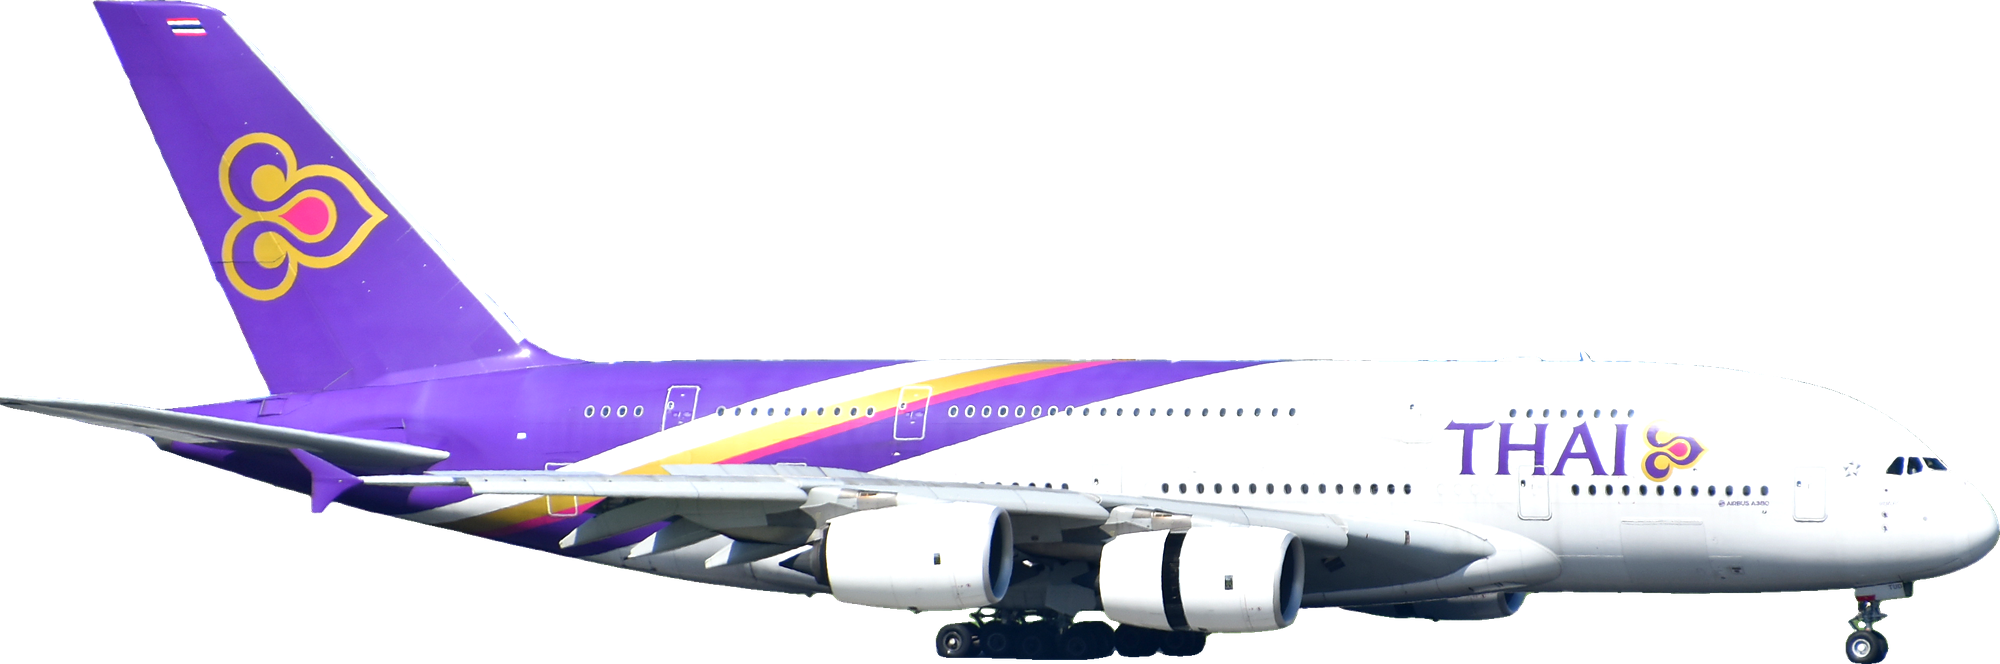
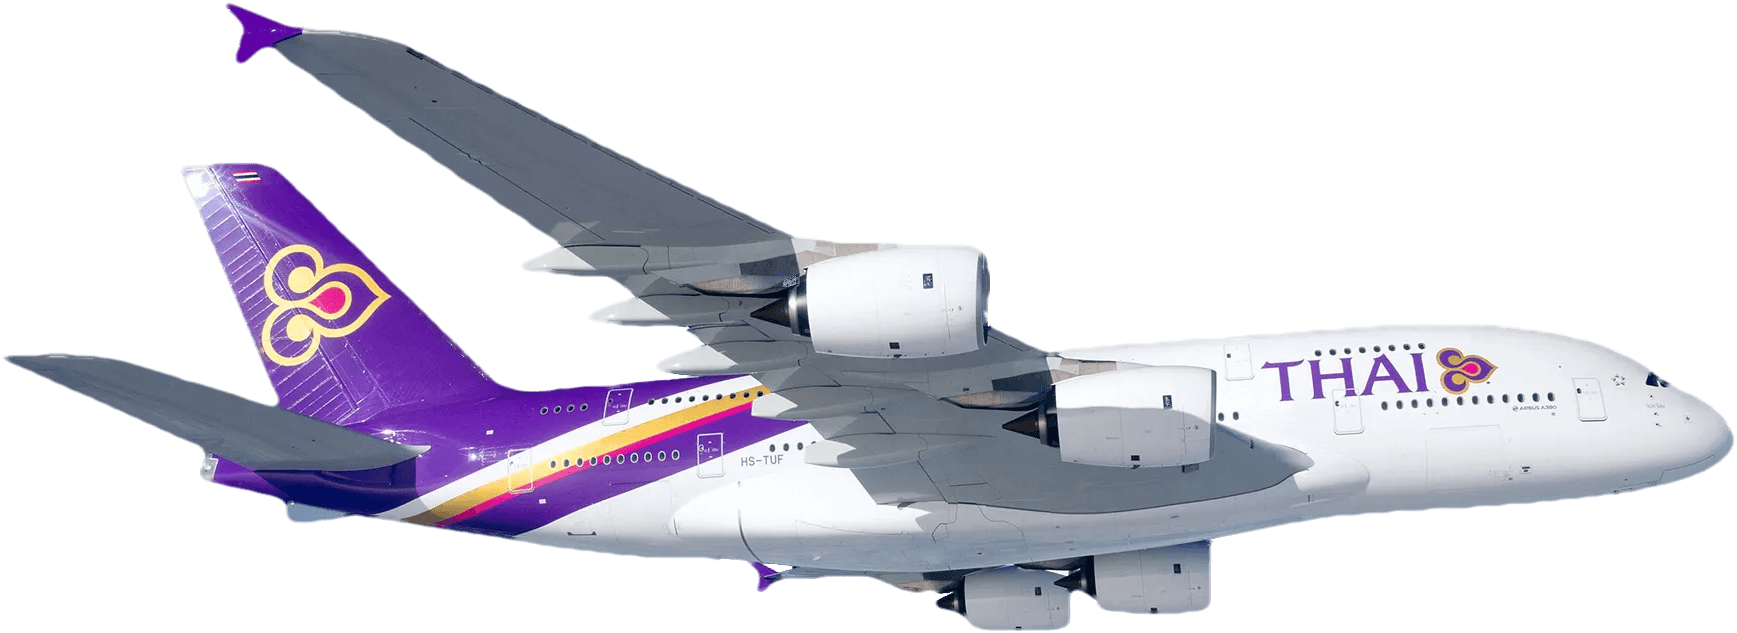
Replace the retired A380's picture with the owner's photograph of HS-TUF
The owner supplied a new A380 photograph on 15 Nov 2026. Its sky was
removed with macOS's subject lifting, then refined: the outline smoothed,
edge pixels recoloured from the airframe beside them so no blue halo is
left, and sky showing between the engines and pylons cut out. The
cockpit windows, the fin's flag and every marking are untouched, and the
picture is not mirrored. It is cropped to the airframe, 1737x633, and
the original is kept in _source-media/fleet-originals/history.

Its Commons credit leaves the footer with the old photograph.

The photograph is taken from below, banking, so its wings make it taller
than the side views. The frame's height cap shrank it below the shorter
747-400; an `angled` image now keeps its length and runs a little past
the frame's height, without changing the frame's own height, so the
board does not jump when the type is picked. Only the A380 is marked.

Claude-Session: https://claude.ai/code/session_01Tv72X85qZyVtd3HqDFykYj

diff --git a/content/fleet.ts b/content/fleet.ts
@@ -40,8 +40,19 @@ export type Aircraft = {
   legacy?: true;
 };
 
-/** A file under public/, and its intrinsic size in pixels. */
-export type AircraftImage = { src: string; width: number; height: number; credit?: PhotoCredit };
+/**
+ * A file under public/, and its intrinsic size in pixels. `angled` marks a
+ * picture taken from below or at an angle rather than side-on: its wings make
+ * it taller than a profile, so the frame's height cap would shrink it below
+ * its length, and it is let run past that height instead.
+ */
+export type AircraftImage = {
+  src: string;
+  width: number;
+  height: number;
+  credit?: PhotoCredit;
+  angled?: true;
+};
 
 /**
  * Who took a photograph and the licence it is used under. A Creative Commons
@@ -90,11 +101,11 @@ const allTypes: Aircraft[] = [
       credit: { author: "QFSE Media", license: "CC BY-SA 3.0 NZ",
         source: "https://commons.wikimedia.org/wiki/File:01_Thai_Airways_HS-TNC.jpg",
         licenseUrl: "https://creativecommons.org/licenses/by-sa/3.0/nz/" } } },
+  // HS-TUF in flight, supplied by the owner on 15 Nov 2026 and cut out of its
+  // sky. It is seen from below, banking, rather than flat side-on like the
+  // rest; the original is in _source-media/fleet-originals/history.
   { code: "A380", maker: "Airbus", name: "A380", length: 72.7, height: 24.1, retired: true,
-    image: { src: "/images/history/airbus-a380.png", width: 2000, height: 664,
-      credit: { author: "Alec Wilson", license: "CC BY-SA 2.0",
-        source: "https://commons.wikimedia.org/wiki/File:HS-TUD_(27782856595).jpg",
-        licenseUrl: "https://creativecommons.org/licenses/by-sa/2.0/" } } },
+    image: { src: "/images/history/airbus-a380.png", width: 1737, height: 633, angled: true } },
   { code: "B744", maker: "Boeing", name: "747-400", length: 70.7, height: 19.4, retired: true,
     image: { src: "/images/history/boeing-747-400.png", width: 2000, height: 573,
       credit: { author: "Alec Wilson", license: "CC BY-SA 2.0",

diff --git a/app/globals.css b/app/globals.css
@@ -2121,6 +2121,19 @@ select:disabled,
     object-position: right center;
   }
 
+  /* Seen from below, the wings make it taller than a side view; capped, it
+     came out shorter than types it is longer than. It keeps its length and
+     runs a little past the frame's height instead. */
+  .tgva-aircraft-frame img.is-angled {
+    max-height: none;
+  }
+
+  /* ...past it, not by it: the frame keeps its height, so the board does not
+     jump when this type is picked. The overrun is shared top and bottom. */
+  .tgva-aircraft-frame:has(> img.is-angled) {
+    min-height: 0;
+  }
+
   /* ---- the handle ----
      It reads as a thing to take hold of rather than press: a tab moulded into
      the board's edge, chevron pointing the way home and three raised dots

diff --git a/components/sections/AircraftPicture.tsx b/components/sections/AircraftPicture.tsx
@@ -53,6 +53,7 @@ export function AircraftPicture({
         width={aircraft.image.width}
         height={aircraft.image.height}
         sizes={sizes}
+        className={aircraft.image.angled ? "is-angled" : undefined}
         style={{ "--tgva-scale": Math.max(aircraft.length, SMALLEST_DRAWN) / longest } as CSSProperties}
       />
     </span>
